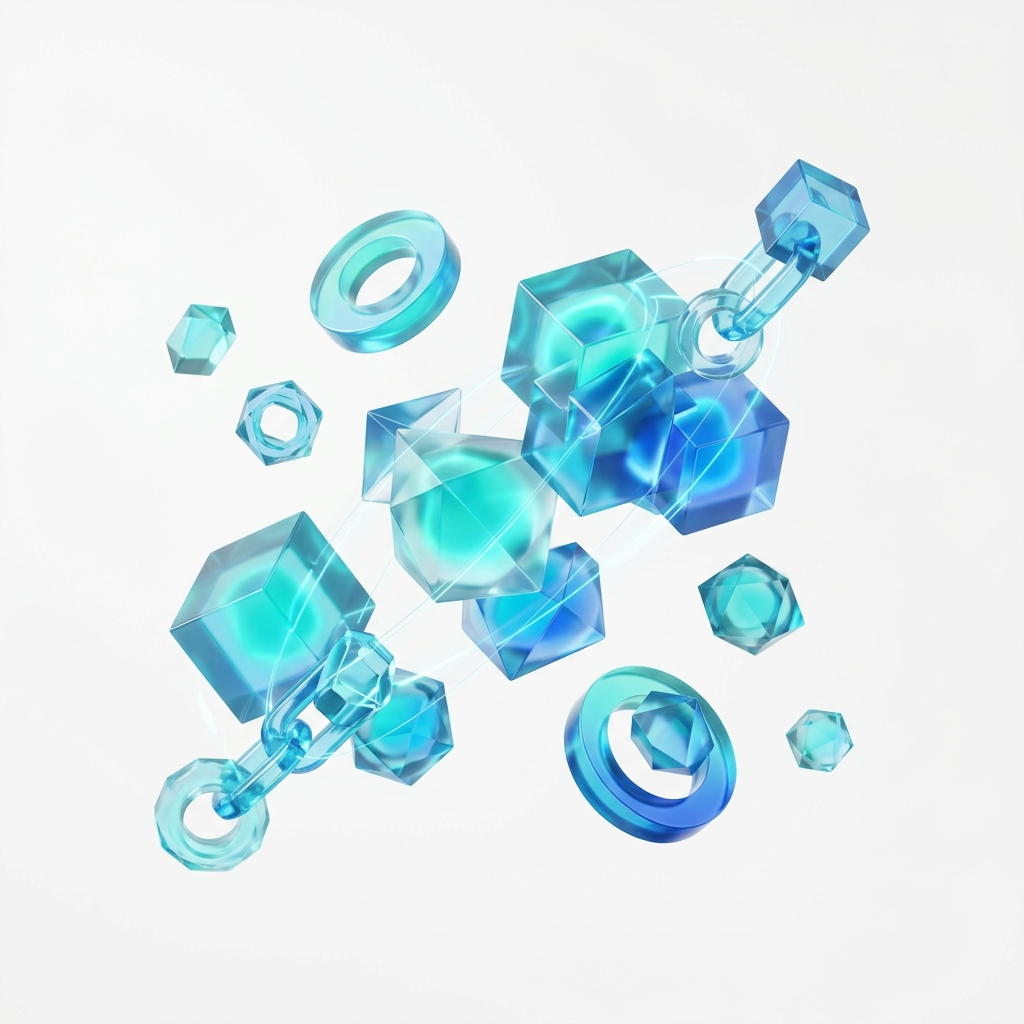
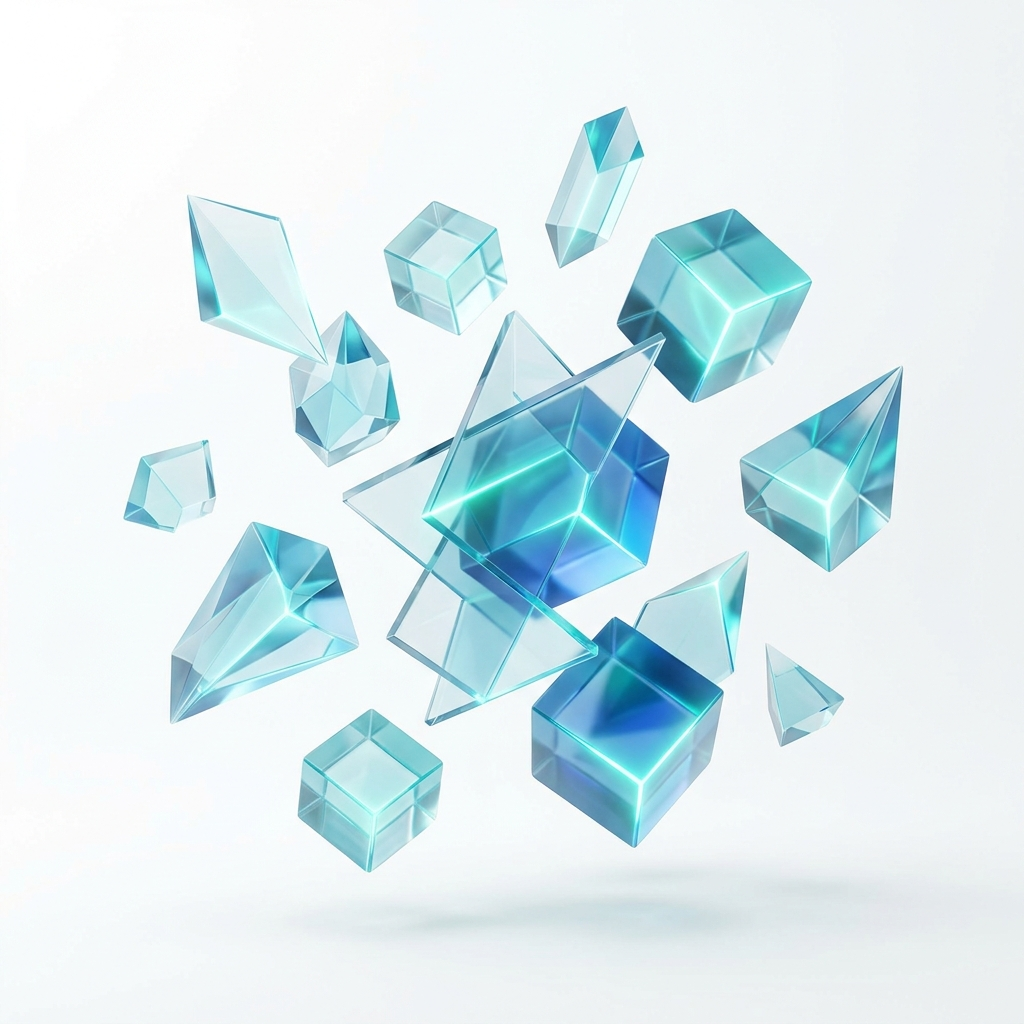
Eliminar cuadrícula de transparencia de la foto de Aitor y quitar contenedor de tarjeta de la ilustración hero

diff --git a/src/style.css b/src/style.css
@@ -374,18 +374,14 @@ section.alt-bg {
 .hero-image {
   max-width: 100%;
   height: auto;
-  border-radius: 24px;
-  box-shadow: 0 15px 35px rgba(15, 23, 42, 0.04);
-  border: 1px solid var(--border-color);
   z-index: 2;
   position: relative;
   animation: float 6s ease-in-out infinite;
-  transition: transform 0.5s cubic-bezier(0.16, 1, 0.3, 1), box-shadow 0.5s ease;
+  transition: transform 0.5s cubic-bezier(0.16, 1, 0.3, 1);
 }
 
 .hero-image:hover {
   transform: scale(1.03) translateY(-5px);
-  box-shadow: 0 25px 50px rgba(8, 145, 178, 0.1);
 }
 
 /* Values / Philosophy Section */